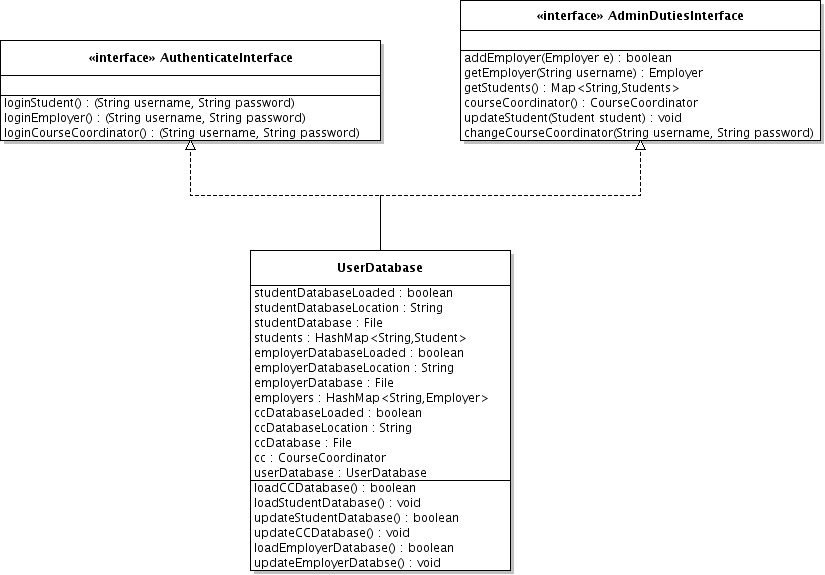
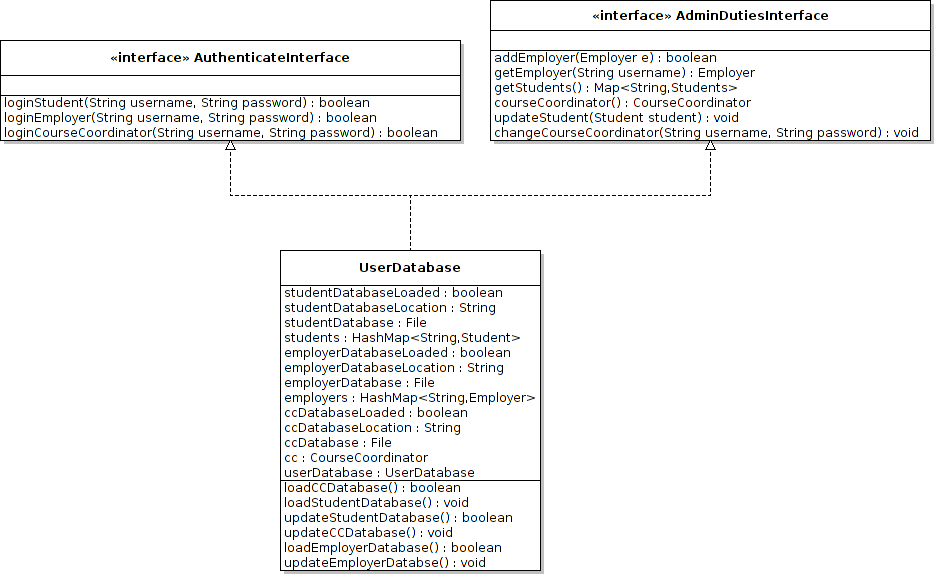
D6 now fully updated

diff --git a/d6.tex b/d6.tex
@@ -469,22 +469,21 @@ companies, a separate store for their user information will be used.\\
 
 \begin{itemize}
 
-\item{\textbf{public boolean addCompany(String name, String email, String 
-password)}
+\item{\textbf{public boolean addEmployer(Employer e)}
 
-Add information about a company to the database.
+Add information about an employer to the database.
 
 \textbf{Preconditions:} Database must not already contain details of the 
-company.
+employer.
 
 \textbf{Invariants:}
 
-\textbf{Postconditions:} Database now contains information about a company 
+\textbf{Postconditions:} Database now contains information about an employer 
 including their login password.}
 
-\item{\textbf{public Company getCompany(String name)}
+\item{\textbf{public Employer getEmployer(String username)}
 
-Gets information about the company with the given name.
+Gets the employer with the given username.
 
 \textbf{Preconditions:}
 
@@ -493,19 +492,16 @@ Gets information about the company with the given name.
 \textbf{Postconditions:} If a valid name is given, the object associated with
 the company is returned, otherwise null is returned.}
 
-\item{\textbf{public Student getStudent(String guid)}
+\item{\textbf{public Map<String,Student> getStudents()}
 
-Gets information about the student with the given GUID from MyCampus and the
-application's user specific information database (such as internship progress).
+Returns the mapping of String matriculation to Student's in the system.
 
 \textbf{Preconditions:}
 
 \textbf{Invariants:}
 
-\textbf{Postconditions:} If a valid GUID is given, the object associated with
-the student is returned, otherwise null is returned. If this is the first time
-a student has been asked for, a record will be added to the user specific
-information database.}
+\textbf{Postconditions:}
+}
 
 \item{\textbf{public void updateStudent(Student student)}
 
@@ -517,7 +513,70 @@ is known to the application's user database.
 
 \textbf{Invariants:}
 
-\textbf{Postconditions:} Student's user specific information is up to date.}
+\textbf{Postconditions:} Student's user specific information is up to
+date.}
+
+\item{\textbf{public CourseCoordinator courseCoordinator()}
+
+Returns the current course coordinator of the system.
+
+\textbf{Preconditions:} 
+
+\textbf{Invariants:}
+
+\textbf{Postconditions:} If a course coordinator exists within the
+system then they are returned (providing that the current user has
+sufficient rights to do so) and if it does not then null is returned.}
+
+\item{\textbf{public void changeCourseCoordinator(String username,
+    String password)}
+Changes the current Course Coordinators login details to the ones
+supplied by the arguments username and password.
+
+\textbf{Preconditions:}
+
+\textbf{Invariants:}
+
+\textbf{Postconditions:}}
+
+\item{\textbf{public boolean loginStudent(String username, String
+    password)} 
+Returns whether or not the given username and password are valid
+entries in the respective database.
+
+\textbf{Preconditions:}
+
+\textbf{Invariants:}
+
+\textbf{Postconditions:}
+
+}
+
+\item{\textbf{public boolean loginEmployer(String username, String
+    password)} 
+Returns whether or not the given username and password are valid
+entries in the respective database.
+
+\textbf{Preconditions:}
+
+\textbf{Invariants:}
+
+\textbf{Postconditions:}
+
+}
+
+\item{\textbf{public boolean loginCourseCoordinator(String username, String
+    password)} 
+Returns whether or not the given username and password are valid
+entries in the respective database.
+
+\textbf{Preconditions:}
+
+\textbf{Invariants:}
+
+\textbf{Postconditions:}
+
+}
 
 \end{itemize}
 
